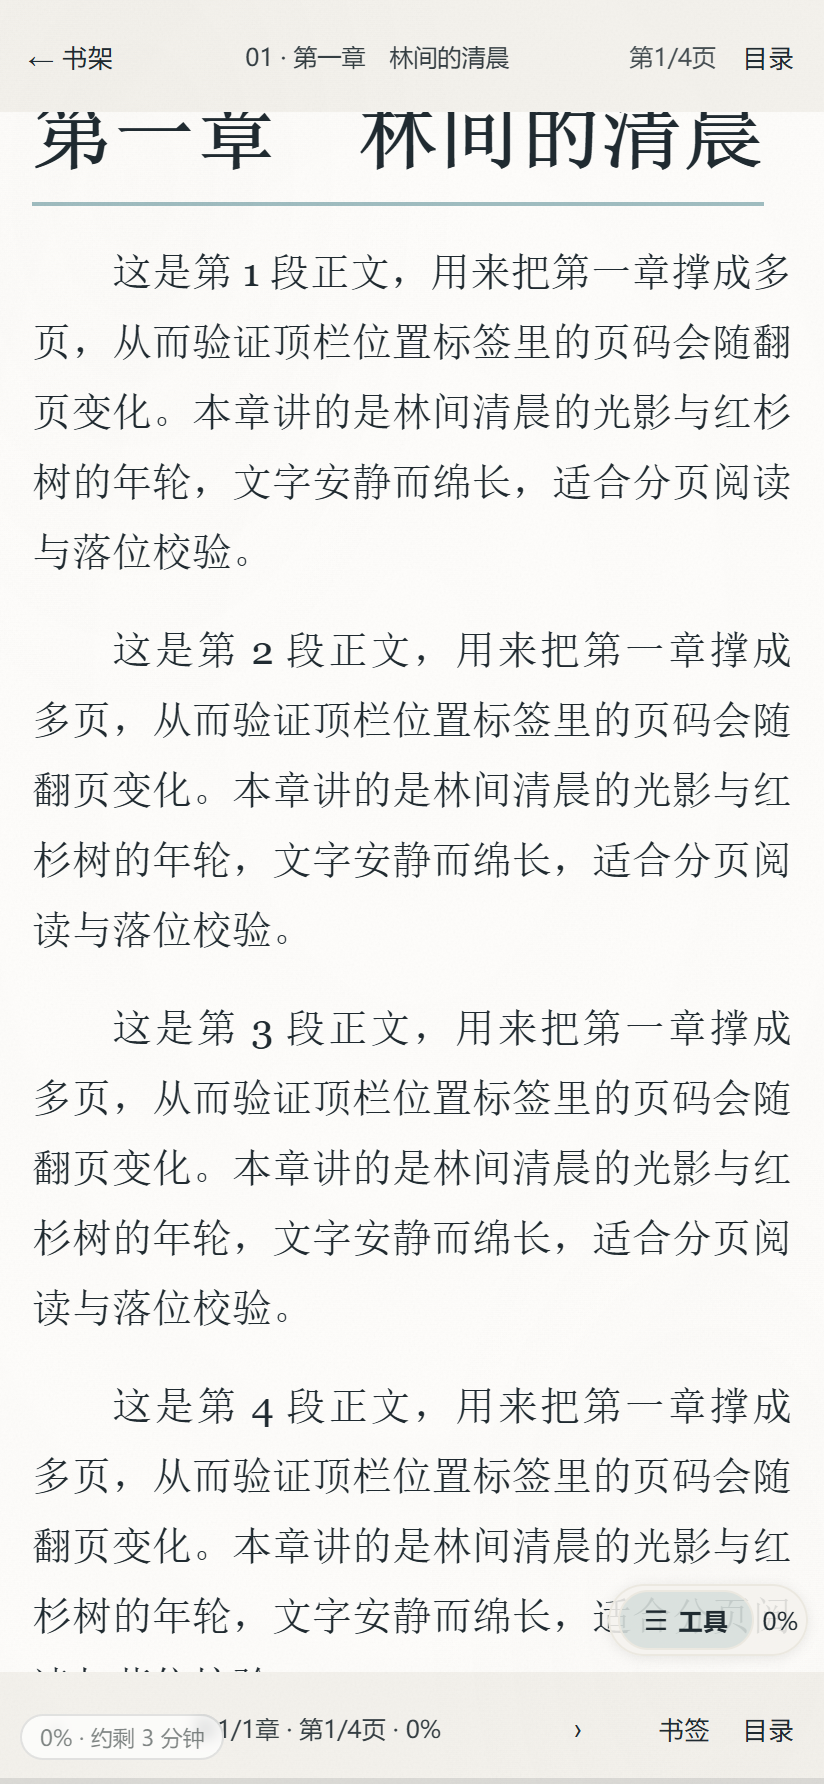
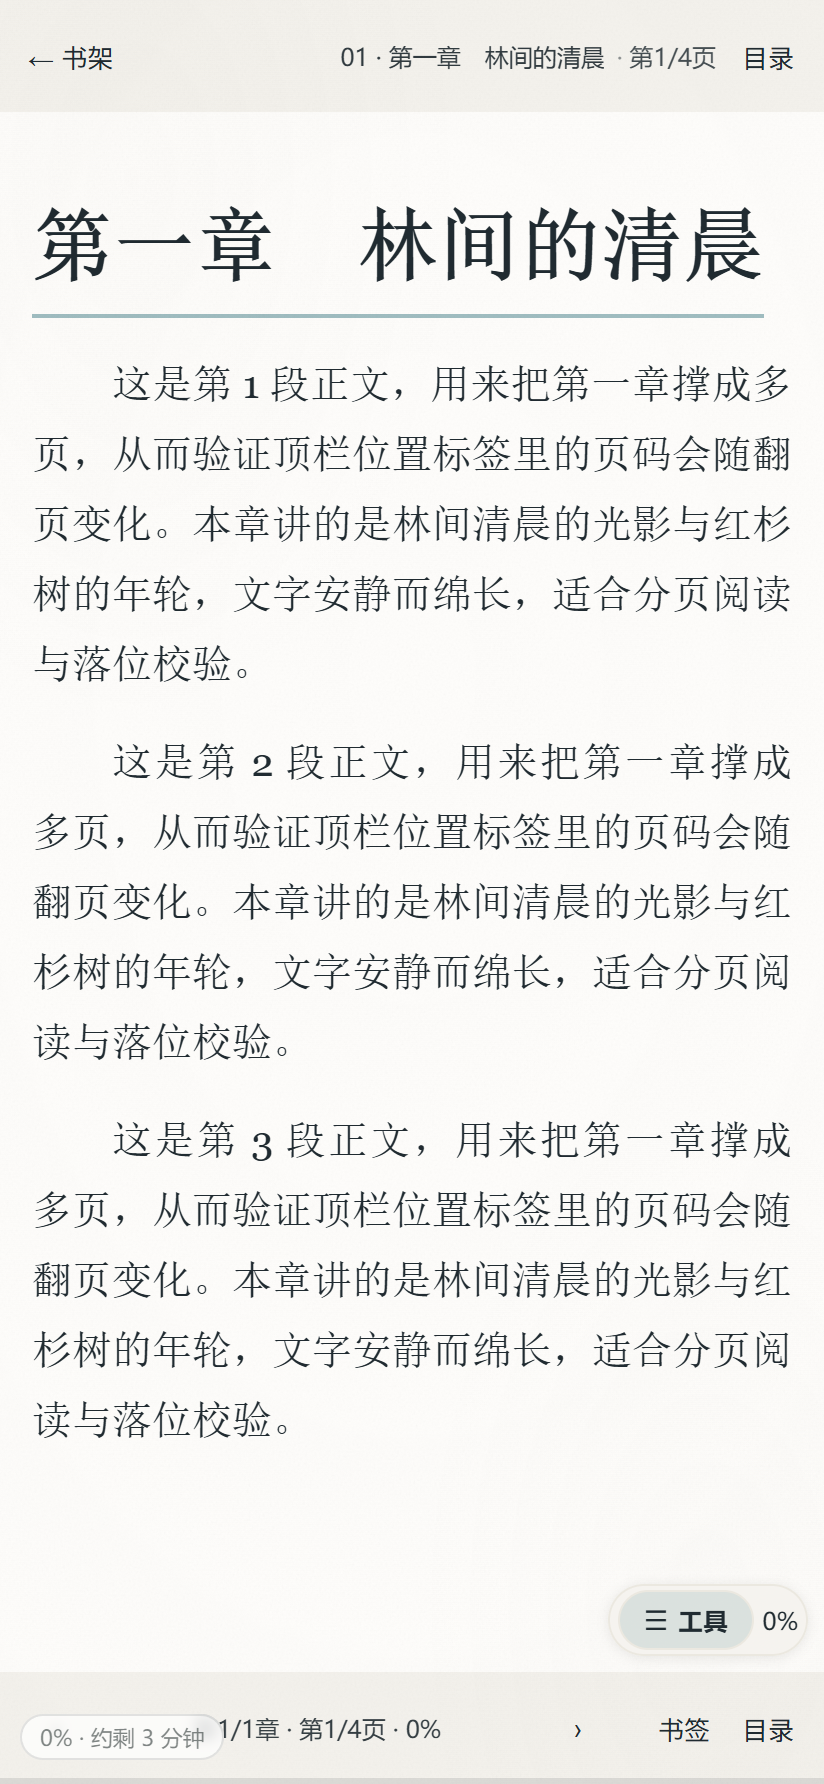
feat(reader): 顶栏常驻，章节+页码一直显示，升至 v1.5.4/39
问题（v1.5.3 反馈）：① 顶栏四个元素挤在一起；② 右上角没有章节和页数；
③ 沉浸态 hide-chrome 把整个顶栏 display:none，位置信息要点屏幕才出现。
按用户确认方案：顶部精简常驻栏 + 完整章节名。

一、顶栏改为 flex 布局流内常驻（核心）
- www/css/style.css：.topbar 从 position:absolute 改 position:relative +
  flex:0 0 auto，正文 .page-viewport 自动排在顶栏下方，绝不遮挡（实测正文标题
  y=96 > 顶栏底 56）；.bottombar 保持 absolute 悬浮。
- 沉浸态规则：#reader.hide-chrome 只隐藏 .bottombar 与 .topbar-chrome，
  顶栏本身与位置信息常驻（原来隐藏整个 .topbar）。
- www/index.html：顶栏结构改为 ←书架(.topbar-chrome) + .topbar-spacer{flex:1}
  + #chapter-title（右对齐、完整章节名）+ #topbar-loc（页码）+ 目录(.topbar-chrome)。
  .topbar-loc::before 加「 · 」分隔。
- 右上角显示完整「01 · 第一章　林间的清晨 · 第X/Y页」；章节名只在 #chapter-title
  出现一次，#topbar-loc 只写第X/Y页，不重复。

二、版本与缓存
- www/sw.js：CACHE v27→v28、PREV v26→v27；style.css 不在 REUSE，升级取包内新版。
- android/app/build.gradle：versionCode 38→39、versionName 1.5.3→1.5.4。
- 三份 web 资源（www / assets/www / assets/public）md5 一致。

三、测试与验证
- test/pro.mjs：改断言为顶栏常驻/沉浸态只藏按钮/正文不遮挡，新增运行时几何断言，
  28/28 通过。
- scripts/demo_proloc.mjs 改「顶栏常驻」版，截图 demo-loc-1-top.png /
  demo-loc-2-immersive.png 确认沉浸态右上角一直显示、正文零遮挡。
- npm test 全量全绿；clean assembleRelease BUILD SUCCESSFUL；解包确认
  topbar-chrome×2 / topbar-spacer / SW v28；aapt 版本 39/1.5.4；图标满格 YES。

diff --git a/android/app/src/main/assets/www/css/style.css b/android/app/src/main/assets/www/css/style.css
@@ -329,35 +329,52 @@ body { background: var(--bg); color: var(--fg); }
 
 /* ---------- 阅读器 ---------- */
 #reader { background: var(--bg); }
-.topbar, .bottombar {
-  position: absolute;
-  left: 0;
-  right: 0;
+/* 顶栏改为 flex 布局流内的常驻元素（不再 absolute 覆盖正文）：
+   正文 .page-viewport 自动排在顶栏下方，位置信息一直可见且绝不压正文。
+   bottombar 仍需 absolute 悬浮在底部（翻页/工具仅在唤出时出现）。 */
+.topbar {
+  flex: 0 0 auto;
+  position: relative;
   display: flex;
   align-items: center;
-  gap: 10px;
+  gap: 8px;
   padding: 8px 12px;
   padding-top: max(8px, env(safe-area-inset-top));
-  padding-bottom: max(8px, env(safe-area-inset-bottom));
   background: var(--bar-bg);
   color: var(--bar-fg);
   border-bottom: 1px solid var(--hairline);
   min-height: 46px;
   z-index: 5;
 }
-.topbar { top: 0; }
-.bottombar { bottom: 0; border-bottom: none; border-top: 1px solid var(--hairline); }
+.bottombar {
+  position: absolute;
+  left: 0;
+  right: 0;
+  bottom: 0;
+  display: flex;
+  align-items: center;
+  gap: 10px;
+  padding: 8px 12px;
+  padding-bottom: max(8px, env(safe-area-inset-bottom));
+  background: var(--bar-bg);
+  color: var(--bar-fg);
+  border-top: 1px solid var(--hairline);
+  min-height: 46px;
+  z-index: 5;
+}
+/* 弹性空白：把右侧的章节名+页码推到右上角，返回/目录按钮在其外侧 */
+.topbar-spacer { flex: 1 1 auto; }
+/* 章节名 + 页码都在右上角常驻显示，一组紧凑排列、不换行 */
 .chapter-title {
-  flex: 1;
-  text-align: center;
-  font-size: 14px;
+  flex: 0 1 auto;
+  min-width: 0;
+  text-align: right;
+  font-size: 13px;
   overflow: hidden;
   text-overflow: ellipsis;
   white-space: nowrap;
-  opacity: 0.9;
+  opacity: 0.92;
 }
-/* 顶栏内嵌页码：章节名由居中 .chapter-title 呈现，这里只显示「第 X/Y 页」。
-   处在顶栏 flex 布局流内，不悬浮、不压正文；沉浸态（hide-chrome）随 .topbar 一起隐藏。 */
 .topbar-loc {
   flex: 0 0 auto;
   color: var(--bar-fg);
@@ -366,6 +383,8 @@ body { background: var(--bg); color: var(--fg); }
   white-space: nowrap;
   font-variant-numeric: tabular-nums;
 }
+/* 页码与章节名之间加分隔点 */
+.topbar-loc::before { content: " · "; opacity: 0.6; }
 .icon-btn {
   border: none;
   background: transparent;
@@ -396,9 +415,10 @@ body { background: var(--bg); color: var(--fg); }
 .bb-nav { flex: 1 1 auto; }
 .bb-tools { gap: 2px; }
 
-/* 阅读时隐藏上下栏（点击屏幕中部唤出） */
-#reader.hide-chrome .topbar,
+/* 沉浸态：底栏整条隐藏；顶栏保留（章节+页码一直可见），只收起返回/目录按钮，
+   点屏幕中部唤出控制条时才出现。顶栏在 flex 流内占位，正文始终从下方排版、不遮挡。 */
 #reader.hide-chrome .bottombar { display: none; }
+#reader.hide-chrome .topbar-chrome { display: none; }
 
 .page-viewport {
   flex: 1 1 auto;

diff --git a/www/css/style.css b/www/css/style.css
@@ -329,35 +329,52 @@ body { background: var(--bg); color: var(--fg); }
 
 /* ---------- 阅读器 ---------- */
 #reader { background: var(--bg); }
-.topbar, .bottombar {
-  position: absolute;
-  left: 0;
-  right: 0;
+/* 顶栏改为 flex 布局流内的常驻元素（不再 absolute 覆盖正文）：
+   正文 .page-viewport 自动排在顶栏下方，位置信息一直可见且绝不压正文。
+   bottombar 仍需 absolute 悬浮在底部（翻页/工具仅在唤出时出现）。 */
+.topbar {
+  flex: 0 0 auto;
+  position: relative;
   display: flex;
   align-items: center;
-  gap: 10px;
+  gap: 8px;
   padding: 8px 12px;
   padding-top: max(8px, env(safe-area-inset-top));
-  padding-bottom: max(8px, env(safe-area-inset-bottom));
   background: var(--bar-bg);
   color: var(--bar-fg);
   border-bottom: 1px solid var(--hairline);
   min-height: 46px;
   z-index: 5;
 }
-.topbar { top: 0; }
-.bottombar { bottom: 0; border-bottom: none; border-top: 1px solid var(--hairline); }
+.bottombar {
+  position: absolute;
+  left: 0;
+  right: 0;
+  bottom: 0;
+  display: flex;
+  align-items: center;
+  gap: 10px;
+  padding: 8px 12px;
+  padding-bottom: max(8px, env(safe-area-inset-bottom));
+  background: var(--bar-bg);
+  color: var(--bar-fg);
+  border-top: 1px solid var(--hairline);
+  min-height: 46px;
+  z-index: 5;
+}
+/* 弹性空白：把右侧的章节名+页码推到右上角，返回/目录按钮在其外侧 */
+.topbar-spacer { flex: 1 1 auto; }
+/* 章节名 + 页码都在右上角常驻显示，一组紧凑排列、不换行 */
 .chapter-title {
-  flex: 1;
-  text-align: center;
-  font-size: 14px;
+  flex: 0 1 auto;
+  min-width: 0;
+  text-align: right;
+  font-size: 13px;
   overflow: hidden;
   text-overflow: ellipsis;
   white-space: nowrap;
-  opacity: 0.9;
+  opacity: 0.92;
 }
-/* 顶栏内嵌页码：章节名由居中 .chapter-title 呈现，这里只显示「第 X/Y 页」。
-   处在顶栏 flex 布局流内，不悬浮、不压正文；沉浸态（hide-chrome）随 .topbar 一起隐藏。 */
 .topbar-loc {
   flex: 0 0 auto;
   color: var(--bar-fg);
@@ -366,6 +383,8 @@ body { background: var(--bg); color: var(--fg); }
   white-space: nowrap;
   font-variant-numeric: tabular-nums;
 }
+/* 页码与章节名之间加分隔点 */
+.topbar-loc::before { content: " · "; opacity: 0.6; }
 .icon-btn {
   border: none;
   background: transparent;
@@ -396,9 +415,10 @@ body { background: var(--bg); color: var(--fg); }
 .bb-nav { flex: 1 1 auto; }
 .bb-tools { gap: 2px; }
 
-/* 阅读时隐藏上下栏（点击屏幕中部唤出） */
-#reader.hide-chrome .topbar,
+/* 沉浸态：底栏整条隐藏；顶栏保留（章节+页码一直可见），只收起返回/目录按钮，
+   点屏幕中部唤出控制条时才出现。顶栏在 flex 流内占位，正文始终从下方排版、不遮挡。 */
 #reader.hide-chrome .bottombar { display: none; }
+#reader.hide-chrome .topbar-chrome { display: none; }
 
 .page-viewport {
   flex: 1 1 auto;

diff --git a/android/app/src/main/assets/www/sw.js b/android/app/src/main/assets/www/sw.js
@@ -38,8 +38,10 @@
 // app.js 引 mountHub 并暴露 window.__INK_HUB；plus.js 暴露朗读控制。index.html/app.js/plus.js 变更。
 // v27：位置标签由悬浮 #pro-loc 改为顶栏内嵌 #topbar-loc（不再压正文大标题）。
 // index.html/app.js/pro.js/style.css/pro.css 变更，style.css/pro.css 升级必须取包内新版、不从旧缓存复用。
-const CACHE = 'inkreader-v27';
-const PREV_CACHE = 'inkreader-v26';
+// v28：顶栏改为 flex 流内常驻（沉浸态也显示），章节+页码一直在右上角；沉浸态只隐藏返回/目录按钮。
+// index.html/style.css 变更，style.css 升级必须取包内新版、不从旧缓存复用。
+const CACHE = 'inkreader-v28';
+const PREV_CACHE = 'inkreader-v27';
 // 巨大的、永不改变的第三方库走 cache-first（首次拉取后固化）；
 // 应用自身脚本/css 走 network-first，永远取 APK 内最新，杜绝旧缓存覆盖新代码。
 const VENDOR = [

diff --git a/www/sw.js b/www/sw.js
@@ -38,8 +38,10 @@
 // app.js 引 mountHub 并暴露 window.__INK_HUB；plus.js 暴露朗读控制。index.html/app.js/plus.js 变更。
 // v27：位置标签由悬浮 #pro-loc 改为顶栏内嵌 #topbar-loc（不再压正文大标题）。
 // index.html/app.js/pro.js/style.css/pro.css 变更，style.css/pro.css 升级必须取包内新版、不从旧缓存复用。
-const CACHE = 'inkreader-v27';
-const PREV_CACHE = 'inkreader-v26';
+// v28：顶栏改为 flex 流内常驻（沉浸态也显示），章节+页码一直在右上角；沉浸态只隐藏返回/目录按钮。
+// index.html/style.css 变更，style.css 升级必须取包内新版、不从旧缓存复用。
+const CACHE = 'inkreader-v28';
+const PREV_CACHE = 'inkreader-v27';
 // 巨大的、永不改变的第三方库走 cache-first（首次拉取后固化）；
 // 应用自身脚本/css 走 network-first，永远取 APK 内最新，杜绝旧缓存覆盖新代码。
 const VENDOR = [

diff --git a/android/app/src/main/assets/www/index.html b/android/app/src/main/assets/www/index.html
@@ -296,10 +296,11 @@
     <!-- ============ 阅读器 ============ -->
     <section id="reader" class="screen hidden">
       <div id="topbar" class="topbar">
-        <button id="btn-back" class="icon-btn" aria-label="返回书架">← 书架</button>
-        <div id="chapter-title" class="chapter-title"></div>
+        <button id="btn-back" class="icon-btn topbar-chrome" aria-label="返回书架">← 书架</button>
+        <div class="topbar-spacer"></div>
+        <div id="chapter-title" class="chapter-title" aria-label="当前章节"></div>
         <span id="topbar-loc" class="topbar-loc" aria-label="当前页码"></span>
-        <button id="btn-toc-top" class="icon-btn" aria-label="目录">目录</button>
+        <button id="btn-toc-top" class="icon-btn topbar-chrome" aria-label="目录">目录</button>
       </div>
 
       <div id="page-viewport" class="page-viewport">

diff --git a/www/index.html b/www/index.html
@@ -296,10 +296,11 @@
     <!-- ============ 阅读器 ============ -->
     <section id="reader" class="screen hidden">
       <div id="topbar" class="topbar">
-        <button id="btn-back" class="icon-btn" aria-label="返回书架">← 书架</button>
-        <div id="chapter-title" class="chapter-title"></div>
+        <button id="btn-back" class="icon-btn topbar-chrome" aria-label="返回书架">← 书架</button>
+        <div class="topbar-spacer"></div>
+        <div id="chapter-title" class="chapter-title" aria-label="当前章节"></div>
         <span id="topbar-loc" class="topbar-loc" aria-label="当前页码"></span>
-        <button id="btn-toc-top" class="icon-btn" aria-label="目录">目录</button>
+        <button id="btn-toc-top" class="icon-btn topbar-chrome" aria-label="目录">目录</button>
       </div>
 
       <div id="page-viewport" class="page-viewport">
